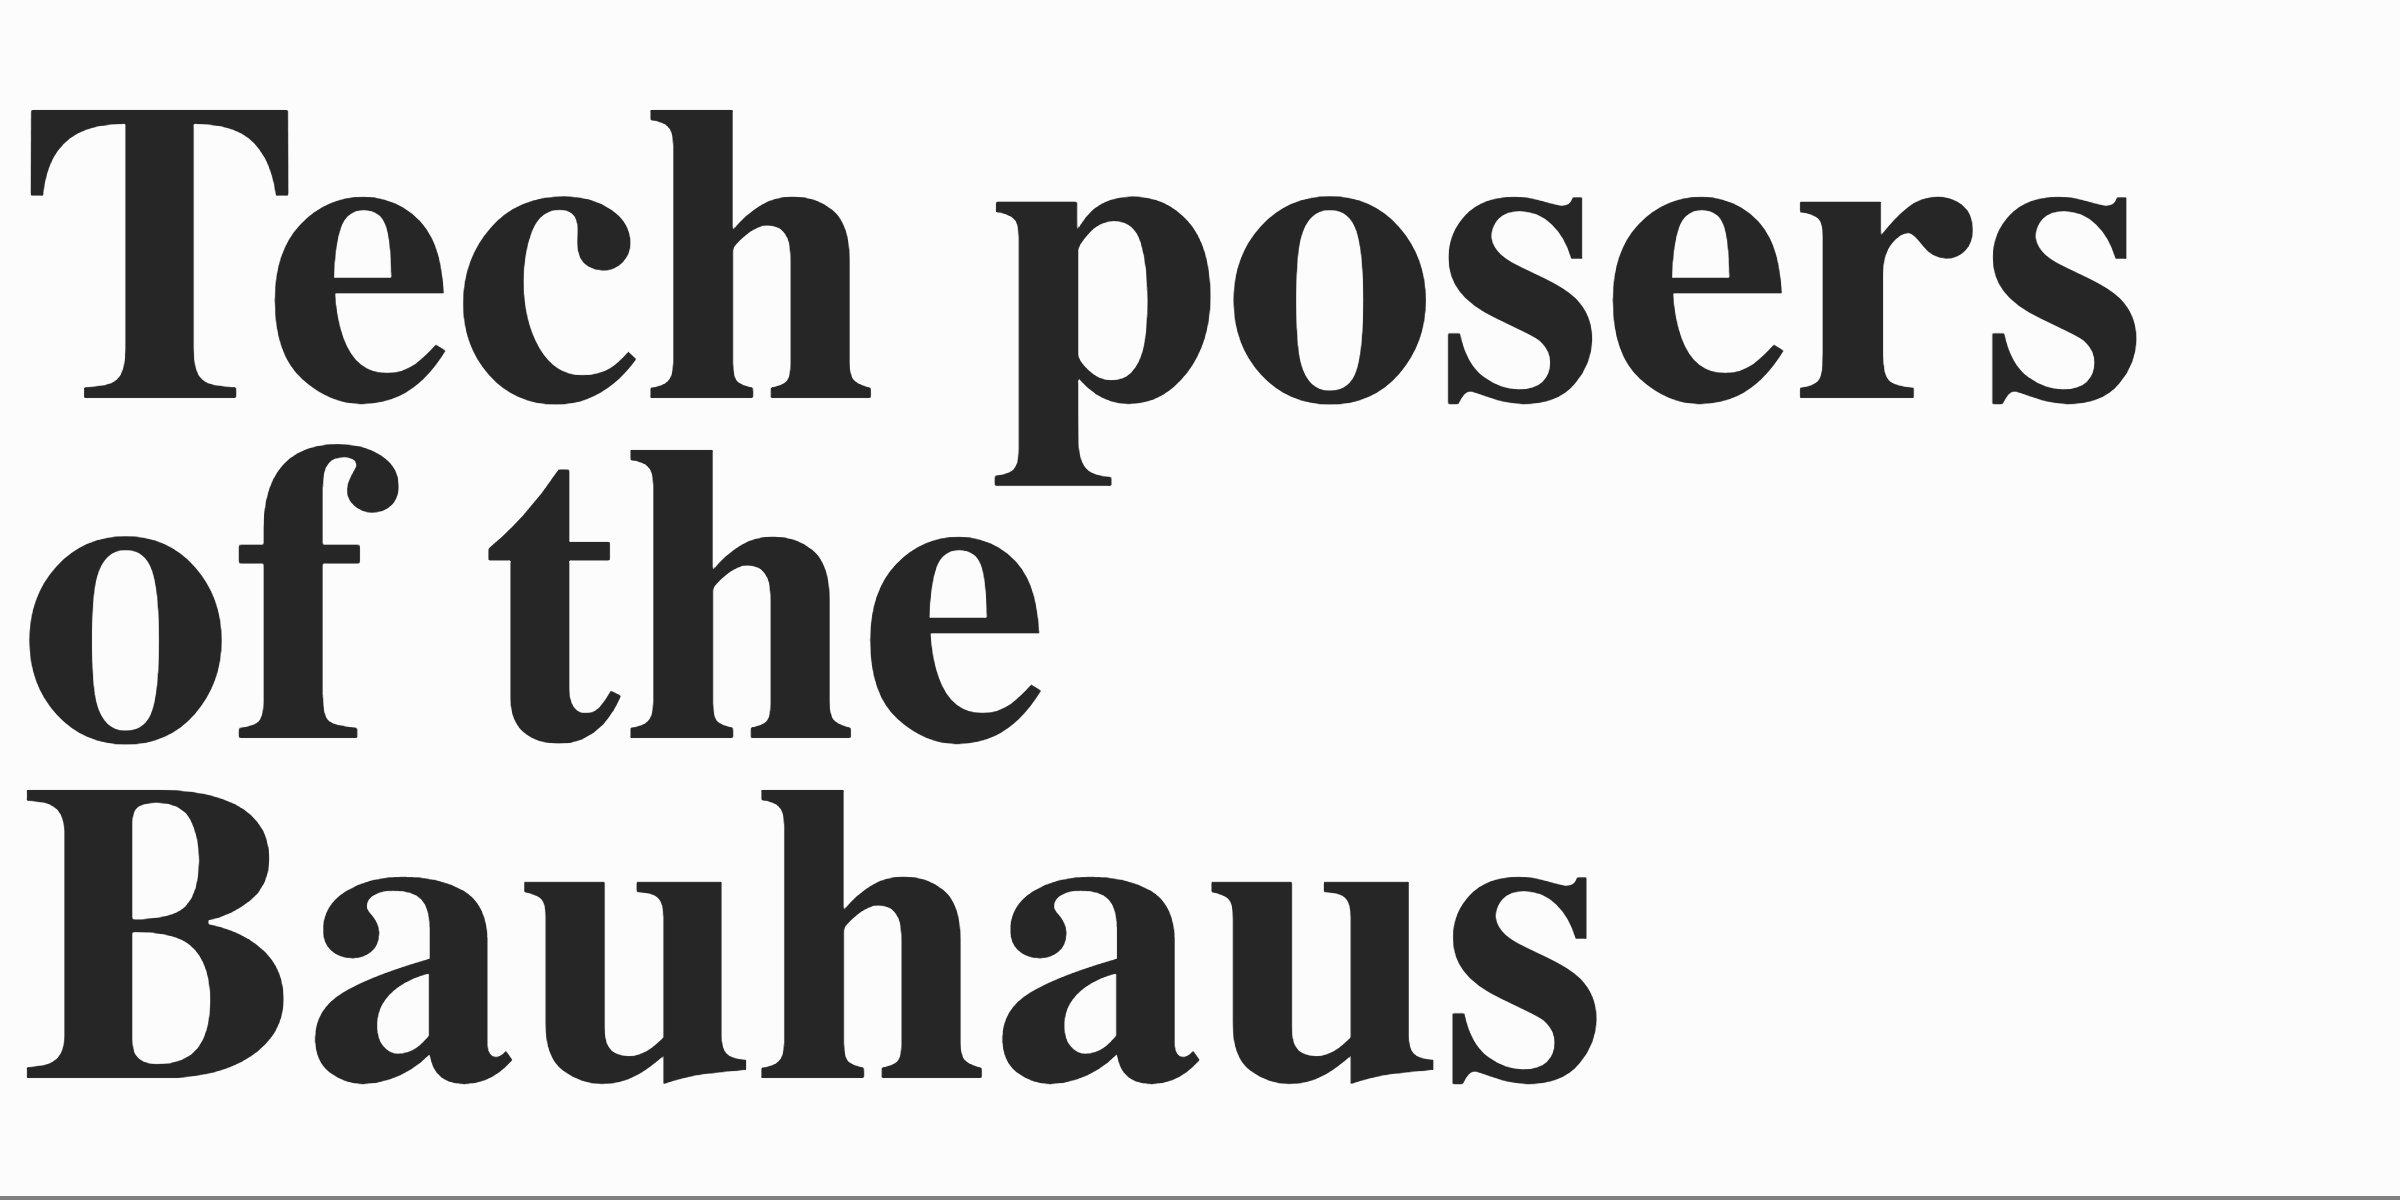
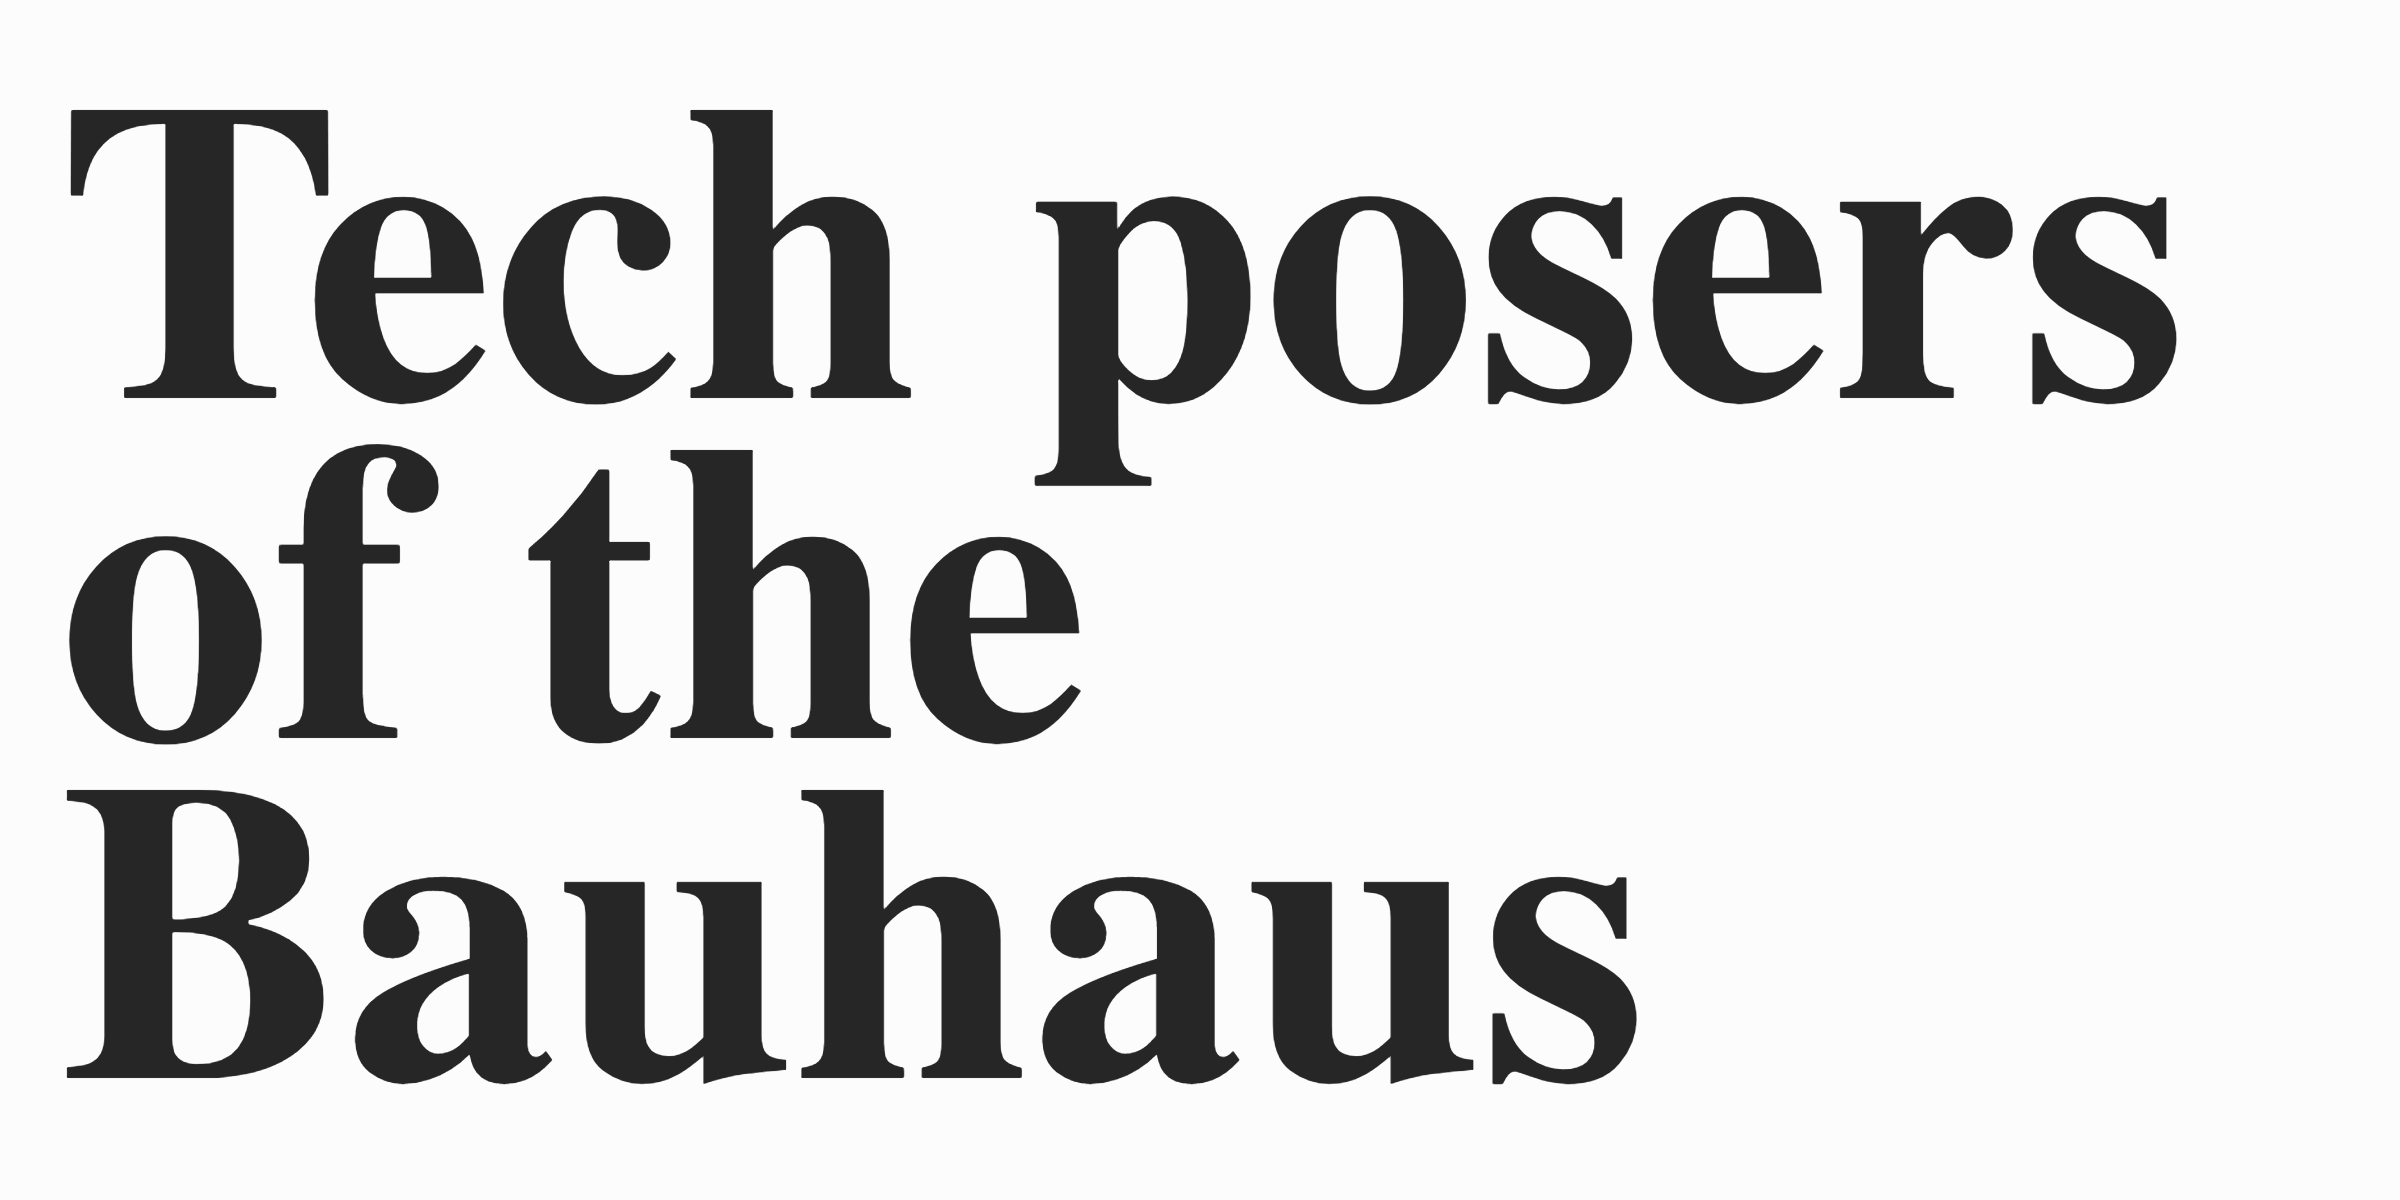
New social image

diff --git a/_layouts/post.html b/_layouts/post.html
@@ -5,11 +5,11 @@ layout: default
 
 {% assign generateSocialImage = true %}
 
-{% if generateSocialImage == false %}
+{% if generateSocialImage == true %}
 <style media="screen">
   :root {
     --size: 14.8vw;
-    --padding: 10px;
+    --padding: 30px;
   }
   *{
     box-sizing: border-box;
